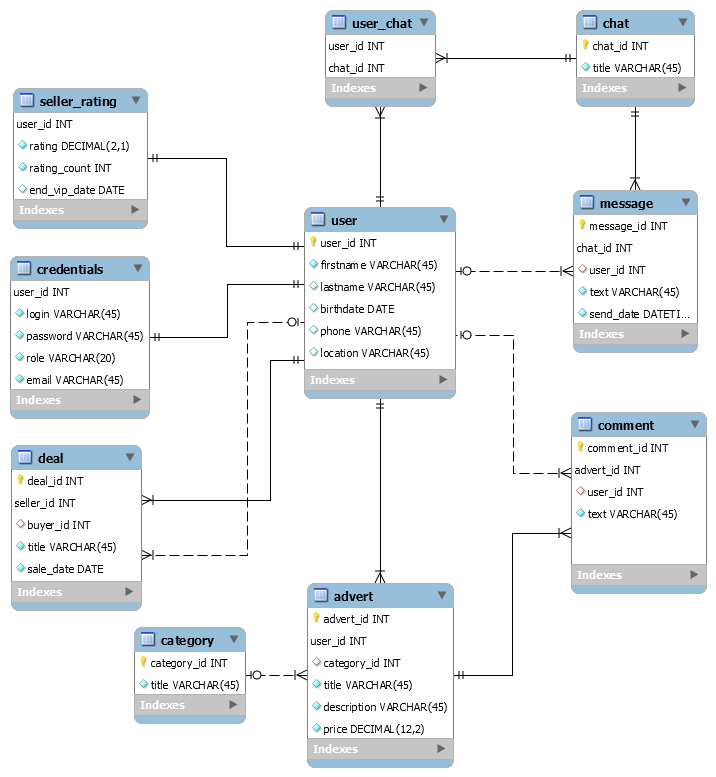
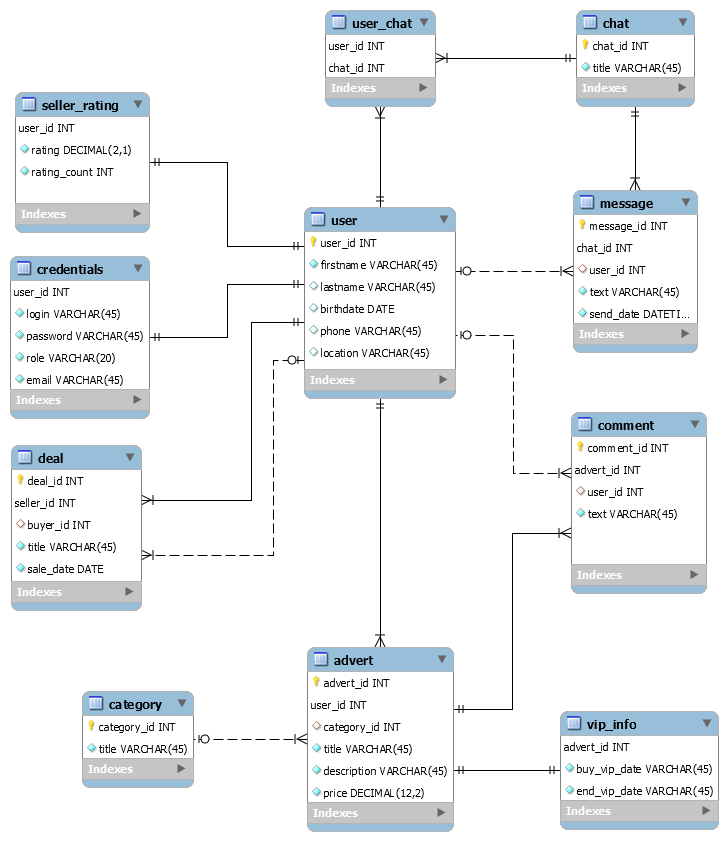
Add vip info table for advert

diff --git a/catalog/entity/src/main/java/com/senla/catalog/entity/VipInfo.java b/catalog/entity/src/main/java/com/senla/catalog/entity/VipInfo.java
@@ -1,0 +1,82 @@
+package com.senla.catalog.entity;
+
+import javax.persistence.Entity;
+import javax.persistence.Table;
+import javax.persistence.Id;
+import javax.persistence.Column;
+import javax.persistence.FetchType;
+import javax.persistence.OneToOne;
+import javax.persistence.JoinColumn;
+
+import java.io.Serializable;
+import java.util.Date;
+import java.util.Objects;
+
+@Entity
+@Table(name = "vip_info")
+public class VipInfo implements Serializable {
+
+    @Id
+    @OneToOne(fetch = FetchType.EAGER)
+    @JoinColumn(name = "advert_id")
+    private Advert advert;
+
+    @Column(name = "buy_vip_date")
+    private Date buyDate;
+
+    @Column(name = "end_vip_date")
+    private Date endDate;
+
+    public VipInfo(){
+    }
+
+    public VipInfo(Advert advert, Date buyDate, Date endDate) {
+        this.advert = advert;
+        this.buyDate = buyDate;
+        this.endDate = endDate;
+    }
+
+    public Advert getAdvert() {
+        return advert;
+    }
+
+    public void setAdvert(Advert advert) {
+        this.advert = advert;
+    }
+
+    public Date getBuyDate() {
+        return buyDate;
+    }
+
+    public void setBuyDate(Date buyDate) {
+        this.buyDate = buyDate;
+    }
+
+    public Date getEndDate() {
+        return endDate;
+    }
+
+    public void setEndDate(Date endDate) {
+        this.endDate = endDate;
+    }
+
+    @Override
+    public boolean equals(Object o) {
+        if (this == o) return true;
+        if (o == null || getClass() != o.getClass()) return false;
+        VipInfo vipInfo = (VipInfo) o;
+        return Objects.equals(advert, vipInfo.advert) &&
+                Objects.equals(buyDate, vipInfo.buyDate) &&
+                Objects.equals(endDate, vipInfo.endDate);
+    }
+
+    @Override
+    public int hashCode() {
+        return Objects.hash(advert, buyDate, endDate);
+    }
+
+    @Override
+    public String toString() {
+        return buyDate + " " + endDate;
+    }
+}

diff --git a/catalog/entity/src/main/java/com/senla/catalog/entity/SellerRating.java b/catalog/entity/src/main/java/com/senla/catalog/entity/SellerRating.java
@@ -10,7 +10,6 @@ import javax.persistence.OneToOne;
 import javax.persistence.JoinColumn;
 import javax.persistence.FetchType;
 
-import java.util.Date;
 import java.util.Objects;
 
 @Entity
@@ -28,9 +27,6 @@ public class SellerRating {
     @Column(name = "rating_count")
     private int ratingCount;
 
-    @Column(name = "end_vip_date")
-    private Date date;
-
     @OneToOne(fetch = FetchType.LAZY)
     @JoinColumn(name = "user_id")
     private User user;
@@ -41,12 +37,6 @@ public class SellerRating {
     public SellerRating(float rating, int ratingCount) {
         this.rating = rating;
         this.ratingCount = ratingCount;
-    }
-
-    public SellerRating(float rating, int ratingCount, Date date) {
-        this.rating = rating;
-        this.ratingCount = ratingCount;
-        this.date = date;
     }
 
     public int getId() {
@@ -73,14 +63,6 @@ public class SellerRating {
         this.ratingCount = ratingCount;
     }
 
-    public Date getDate() {
-        return date;
-    }
-
-    public void setDate(Date date) {
-        this.date = date;
-    }
-
     public User getUser() {
         return user;
     }
@@ -96,22 +78,16 @@ public class SellerRating {
         SellerRating that = (SellerRating) o;
         return id == that.id &&
                 Float.compare(that.rating, rating) == 0 &&
-                ratingCount == that.ratingCount &&
-                Objects.equals(date, that.date);
+                ratingCount == that.ratingCount;
     }
 
     @Override
     public int hashCode() {
-        return Objects.hash(id, rating, ratingCount, date);
+        return Objects.hash(id, rating, ratingCount);
     }
 
     @Override
     public String toString() {
-        String line = id + " " + rating + " " + ratingCount;
-
-        if (date != null) {
-            line += " " + date.toString();
-        }
-        return line;
+        return id + " " + rating + " " + ratingCount;
     }
 }

diff --git a/catalog/dao/src/main/java/com/senla/catalog/dao/VipInfoDao.java b/catalog/dao/src/main/java/com/senla/catalog/dao/VipInfoDao.java
@@ -1,8 +1,8 @@
 package com.senla.catalog.dao;
 
+import com.senla.catalog.IVipInfoDao;
 import com.senla.catalog.dao.basic.AbstractDao;
-import com.senla.catalog.daoapi.ISellerRatingDao;
-import com.senla.catalog.entity.SellerRating;
+import com.senla.catalog.entity.VipInfo;
 import org.hibernate.Session;
 import org.slf4j.Logger;
 import org.slf4j.LoggerFactory;
@@ -10,20 +10,20 @@ import org.springframework.beans.factory.annotation.Autowired;
 import org.springframework.stereotype.Repository;
 
 @Repository
-public class SellerRatingDao extends AbstractDao<SellerRating, Integer> implements ISellerRatingDao {
+public class VipInfoDao extends AbstractDao<VipInfo, Integer> implements IVipInfoDao {
 
-    private static final Logger logger = LoggerFactory.getLogger(SellerRatingDao.class);
+    private static final Logger logger = LoggerFactory.getLogger(DealDao.class);
 
     @Autowired
     private Session session;
 
     @Override
     protected Class getChildClass() {
-        return SellerRatingDao.class;
+        return VipInfoDao.class;
     }
 
     @Override
-    protected Class<SellerRating> getEntityClass() {
-        return SellerRating.class;
+    protected Class<VipInfo> getEntityClass() {
+        return VipInfo.class;
     }
 }

diff --git a/catalog/service/src/main/java/com/senla/catalog/service/VipInfoService.java b/catalog/service/src/main/java/com/senla/catalog/service/VipInfoService.java
@@ -1,0 +1,33 @@
+package com.senla.catalog.service;
+
+import com.senla.catalog.IVipInfoDao;
+import com.senla.catalog.entity.VipInfo;
+import com.senla.catalog.service.basic.AbstractService;
+import com.senla.catalog.serviceapi.IVipInfoService;
+import org.hibernate.Session;
+import org.slf4j.Logger;
+import org.slf4j.LoggerFactory;
+import org.springframework.beans.factory.annotation.Autowired;
+import org.springframework.stereotype.Service;
+
+@Service
+public class VipInfoService extends AbstractService<VipInfo, Integer> implements IVipInfoService {
+
+    private static final Logger logger = LoggerFactory.getLogger(DealService.class);
+
+    @Autowired
+    private Session session;
+
+    @Autowired
+    private IVipInfoDao vipInfoDao;
+
+    @Override
+    protected Class getChildClass() {
+        return VipInfoService.class;
+    }
+
+    @Override
+    protected Class<VipInfo> getEntityClass() {
+        return VipInfo.class;
+    }
+}

diff --git a/catalog/entity/src/main/java/com/senla/catalog/entity/Advert.java b/catalog/entity/src/main/java/com/senla/catalog/entity/Advert.java
@@ -9,6 +9,7 @@ import javax.persistence.GenerationType;
 import javax.persistence.OneToMany;
 import javax.persistence.FetchType;
 import javax.persistence.ManyToOne;
+import javax.persistence.OneToOne;
 import javax.persistence.JoinColumn;
 import javax.persistence.CascadeType;
 
@@ -32,6 +33,9 @@ public class Advert implements Comparable<Advert>{
 
     @Column(name = "price")
     private double price;
+
+    @OneToOne(mappedBy = "advert", cascade = CascadeType.ALL)
+    private VipInfo vipInfo;
 
     @ManyToOne(fetch = FetchType.LAZY)
     @JoinColumn(name = "user_id")
@@ -94,6 +98,14 @@ public class Advert implements Comparable<Advert>{
 
     public void setPrice(double price) {
         this.price = price;
+    }
+
+    public VipInfo getVipInfo() {
+        return vipInfo;
+    }
+
+    public void setVipInfo(VipInfo vipInfo) {
+        this.vipInfo = vipInfo;
     }
 
     public User getUser() {

diff --git a/catalog/controller/src/main/java/com/senla/catalog/controller/MainController.java b/catalog/controller/src/main/java/com/senla/catalog/controller/MainController.java
@@ -40,6 +40,9 @@ public class MainController {
     @Autowired
     private IMessageService messageService;
 
+    @Autowired
+    private IVipInfoService vipInfoService;
+
     //test
     public void start() {
 /*
@@ -57,6 +60,7 @@ public class MainController {
         System.out.println(commentService.getAll().toString());
         System.out.println(chatService.getAll().toString());
         System.out.println(messageService.getAll().toString());
+        System.out.println(vipInfoService.getAll().toString());
     }
 
     private void communication() {

diff --git a/catalog/dao/src/main/java/com/senla/catalog/dao/util/HibernateUtil.java b/catalog/dao/src/main/java/com/senla/catalog/dao/util/HibernateUtil.java
@@ -54,6 +54,7 @@ public class HibernateUtil {
         configuration.setProperties(properties);
 
         configuration.addAnnotatedClass(Advert.class);
+        configuration.addAnnotatedClass(VipInfo.class);
         configuration.addAnnotatedClass(Category.class);
         configuration.addAnnotatedClass(Chat.class);
         configuration.addAnnotatedClass(Comment.class);

diff --git a/catalog/api/src/main/java/com/senla/catalog/serviceapi/IVipInfoService.java b/catalog/api/src/main/java/com/senla/catalog/serviceapi/IVipInfoService.java
@@ -1,0 +1,7 @@
+package com.senla.catalog.serviceapi;
+
+import com.senla.catalog.entity.VipInfo;
+import com.senla.catalog.serviceapi.basic.IGenericService;
+
+public interface IVipInfoService extends IGenericService<VipInfo, Integer> {
+}

diff --git a/catalog/api/src/main/java/com/senla/catalog/IVipInfoDao.java b/catalog/api/src/main/java/com/senla/catalog/IVipInfoDao.java
@@ -1,0 +1,7 @@
+package com.senla.catalog;
+
+import com.senla.catalog.daoapi.basic.IGenericDao;
+import com.senla.catalog.entity.VipInfo;
+
+public interface IVipInfoDao extends IGenericDao<VipInfo, Integer> {
+}
